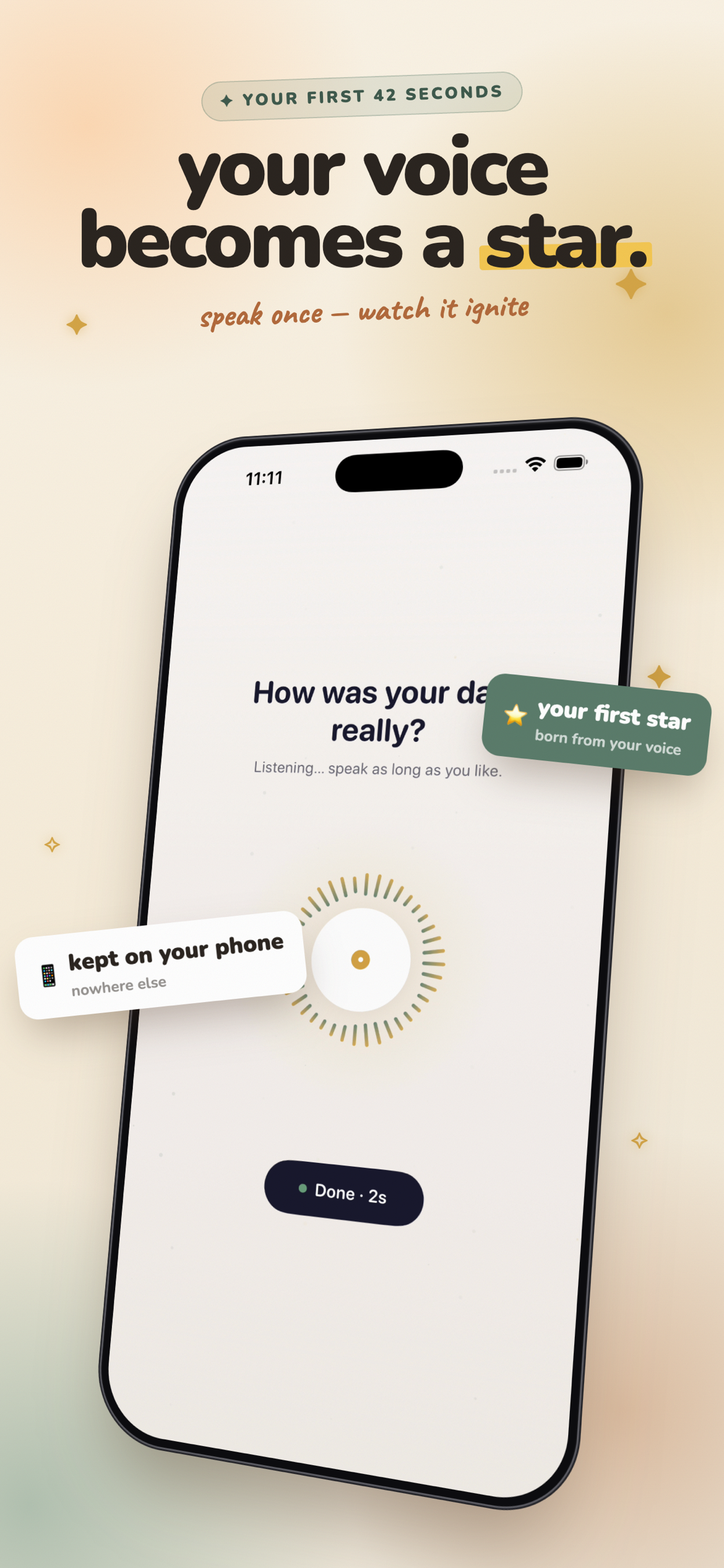
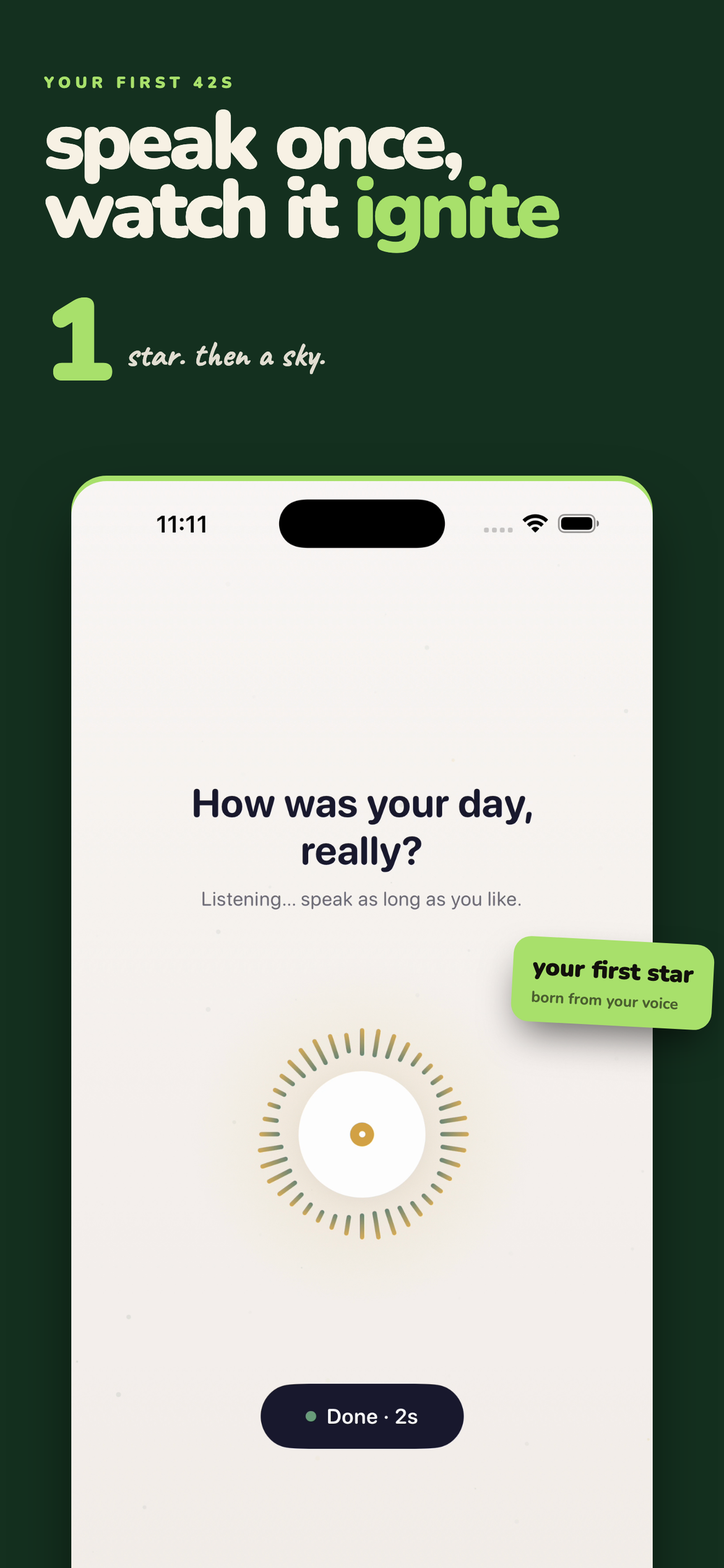
release: v1.10.0 (build 25) — Multi-Language, and a rebuilt store page
Version bump plus a full replacement of the App Store screenshots.

Version
- MARKETING_VERSION 1.9.0 -> 1.10.0, CURRENT_PROJECT_VERSION 24 -> 25
- Release build verified

Screenshots, all four device sizes replaced
The previous set was captured on 3 July and was three releases behind: it showed
none of v1.6 semantic search, v1.7 Ask Your Twin, or v1.9 read-aloud. It was also
one template applied seven times - identical background, identical sparkle
coordinates, identical caption stack - so at carousel scale it read as a single
beige strip. Five of seven headlines began with the word "it", three frames showed
the same journal text, and the privacy claim was illustrated with a PDF export form.

The new set:
- No device bezel and no 3D tilt anywhere. Each frame is a colour field with the
  app screen at full opacity in a hard-edged panel, full width and top-aligned so
  no title is ever clipped.
- Seven colours across the carousel, so the set has a beat rather than blurring.
- Breakout callouts straddling the panel edge, positioned per frame.
- Frames 3 and 4 are new captures showing Ask Your Twin with three real citations
  (Aug 3 57%, Jul 29 39%, Aug 8 37%) and search-by-meaning returning six results
  for a query that shares no keyword with its top hit.

Capture harness
- test20_AskYourTwin, test21_SearchByMeaning, test22_PrivacySettings added
- Notes recorded in the file for three things that cost time: .searchable needs
[…]

diff --git a/solyn/solynUITests/GenerateScreenshots.swift b/solyn/solynUITests/GenerateScreenshots.swift
@@ -274,6 +274,106 @@ class ScreenshotTests: XCTestCase {
         takeScreenshot(named: "15_Today_InviteCard")
     }
 
+    // MARK: - Screenshot 20: Ask Your Twin — grounded chat with citations (v1.7)
+
+    func test20_AskYourTwin() throws {
+        navigateToTab("Twin")
+        sleep(2)
+
+        let ask = app.staticTexts["Ask Your Twin"].firstMatch
+        scrollUntilHittable(ask)
+        XCTAssertTrue(ask.waitForExistence(timeout: 3), "Ask Your Twin row not found on Twin tab")
+        ask.tap()
+        sleep(2)
+
+        // Free text, not a suggested chip. The chips answer from the statistical
+        // profile; typed questions go through semantic retrieval, which is what
+        // produces the "From your journal" citations worth showing.
+        // Phrasing matters here. "What gives me a sense of calm?" scores below the
+        // abstention threshold and returns "not enough journaled evidence" — correct
+        // behaviour, useless screenshot. This one clears the threshold and cites.
+        askChat("What do I say about my morning walks?")
+        sleep(12)
+
+        // Dismiss the keyboard, which otherwise eats the lower half of the frame.
+        // A plain coordinate tap does not do it; scrolling the transcript does.
+        app.scrollViews.firstMatch.swipeDown()
+        sleep(1)
+        app.scrollViews.firstMatch.swipeUp()
+        sleep(2)
+
+        takeScreenshot(named: "20_AskYourTwin")
+    }
+
+    /// Types into the chat composer. `axis: .vertical` means the field can surface
+    /// as a text view rather than a text field, so try both.
+    private func askChat(_ question: String) {
+        let field = app.textFields["Ask your twin anything…"].firstMatch
+        let view = app.textViews.firstMatch
+        let target: XCUIElement = field.waitForExistence(timeout: 3) ? field : view
+        guard target.waitForExistence(timeout: 3) else {
+            XCTFail("Chat composer not found"); return
+        }
+        target.tap()
+        target.typeText(question)
+        // Send button is the arrow next to the composer.
+        let send = app.buttons.matching(
+            NSPredicate(format: "label CONTAINS[c] 'send' OR label CONTAINS[c] 'arrow'")).firstMatch
+        if send.exists && send.isHittable { send.tap() } else { target.typeText("\n") }
+    }
+
+    // MARK: - Screenshot 21: Search by meaning (v1.6)
+
+    func test21_SearchByMeaning() throws {
+        navigateToTab("Journal")
+        sleep(2)
+
+        let searchButton = app.buttons["Search by meaning"].firstMatch
+        XCTAssertTrue(searchButton.waitForExistence(timeout: 4), "Search by meaning button not found")
+        searchButton.tap()
+        sleep(2)
+
+        // SemanticSearchView uses .searchable, so this is a search field, not a text field.
+        let field = app.searchFields.firstMatch
+        XCTAssertTrue(field.waitForExistence(timeout: 4), "Search field not found in the sheet")
+        field.tap()
+        // Deliberately shares no keyword with the seeded entries, so any result
+        // can only have come from meaning rather than string matching.
+        field.typeText("a quiet moment that made me feel calm")
+        sleep(2)
+        app.keyboards.buttons["search"].firstMatch.tap()
+        sleep(6)
+        takeScreenshot(named: "21_SearchByMeaning")
+    }
+
+    // MARK: - Screenshot 22: Privacy — the app locked behind Face ID
+    //
+    // A better privacy visual than the Settings export form the old set used.
+    // `-appLockEnabled YES` lands in NSArgumentDomain, which AppLockManager's
+    // UserDefaults read resolves first, so the lock screen shows on launch.
+
+    // NOTE: an earlier version launched with `-appLockEnabled YES` to capture the
+    // app's own lock screen. In the simulator LockScreenView auto-fires biometric
+    // auth, which falls through to the SYSTEM passcode alert — a grey iOS dialog,
+    // not our UI, and not something to put on a store page. Capturing the real
+    // Privacy & Security settings instead.
+    func test22_PrivacySettings() throws {
+        navigateToTab("Settings")
+        sleep(2)
+
+        // Anchor on a privacy row so the whole section is framed, rather than the
+        // PDF export form the previous screenshot set used for the privacy claim.
+        let anchor = app.staticTexts["Your voice stays on this device"].firstMatch
+        if anchor.exists {
+            scrollUntilHittable(anchor, maxSwipes: 8)
+        } else {
+            let faceID = app.staticTexts["Privacy & Security"].firstMatch
+            scrollUntilHittable(faceID, maxSwipes: 8)
+        }
+        liftAboveTabBar()
+        takeScreenshot(named: "22_PrivacySettings")
+    }
+
     // MARK: - Helpers
 
     /// Swipes up until `element` reports hittable (or swipes run out).

diff --git a/solyn/AppStore/ReviewNotes_1.10.0.md b/solyn/AppStore/ReviewNotes_1.10.0.md
@@ -1,0 +1,54 @@
+# App Review Notes — DailyVox 1.10.0 (build 25)
+
+## What changed in this build
+
+**Localization.** The app is now available in Spanish, French, German and Italian
+alongside English, via a single `Localizable.xcstrings` String Catalog (358 strings,
+complete in all four). The app follows the system language; there is no in-app
+language picker to test.
+
+**App Store screenshots.** All four device sizes replaced.
+
+No new frameworks, permissions, entitlements or network capability were added.
+
+## How to review the localization
+
+Set the device language to Spanish, French, German or Italian and relaunch. The
+entire interface translates. No account, no sign-in, and no network connection is
+required at any point.
+
+## Why only four languages
+
+This is likely to be the first question, so: the Speech framework transcribes far
+more languages than four, and DailyVox has always supported that. Recording works in
+every language the device can transcribe, in this build as in every previous one.
+
+The limit is `NLEmbedding.sentenceEmbedding`, which powers the app's search-by-meaning
+feature and is available for English, Spanish, French, German and Italian only.
+Shipping the interface in a language where that feature silently returned nothing
+would have been a worse experience than not shipping that language yet. Additional
+languages will follow if and when Apple's on-device embeddings cover them.
+
+## Privacy, unchanged
+
+- No accounts, no sign-in, no server. There is no backend of any kind.
+- All processing is on-device: transcription (`SpeechAnalyzer` / `SFSpeechRecognizer`),
+  analysis (`NaturalLanguage`), and conversational answers (Foundation Models on
+  supported hardware, on-device semantic retrieval elsewhere).
+- Optional iCloud sync uses the user's own private CloudKit database.
+- "Data Not Collected" on the privacy nutrition label remains accurate.
+
+## Demo data
+
+No demo account is needed. The app opens straight into a usable state. To see the
+Digital Twin populated, record two or three entries; the Twin builds from the
+device's own entries and nothing is fetched.
+
+## Notes for the reviewer
+
+- Microphone access is requested at the point of first recording, with the purpose
+  string shown in context.
+- Speech recognition permission is likewise requested at first use.
+- HealthKit is optional and off by default (Settings → Body Twin). The app is fully
+  functional without granting it.
+- Notifications are optional and off unless enabled during onboarding.
